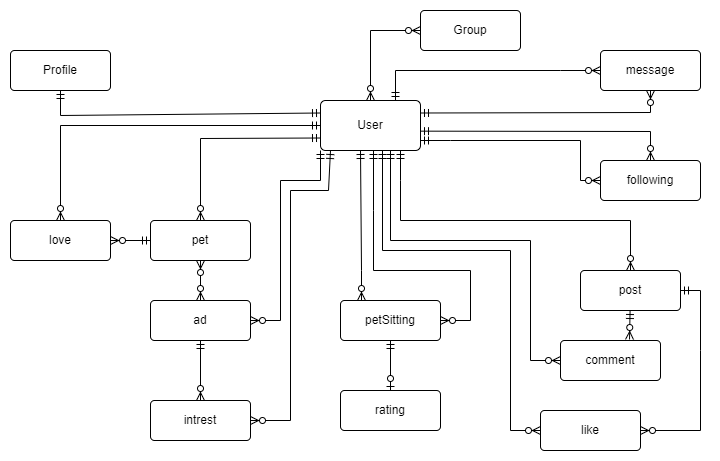
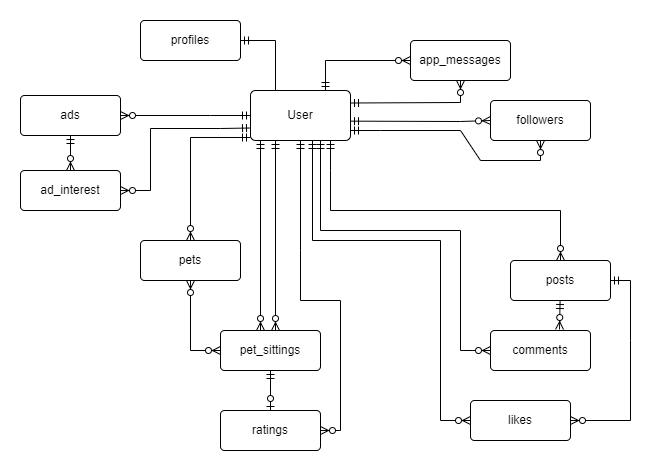
add images of models to apps in readme

diff --git a/README.md b/README.md
@@ -13,13 +13,13 @@ Once that was finished a more detailed logical database model was made with all 
 
 ![logical](/documentation/models/petpalacelogicalmodel.png)
 
-The scope of the database is quite wide to take into consideration that the project might grow in the future, leaving room for future features that might not be implemented in the first release.
-
 ## Apps
 
 The Pet Palace API has got # nr of apps, the different apps and their purpose is described as follows:
 
 ### Profile app
+
+![profilesmodel](/documentation/models/profilemodel.png)
 
 An app for the user's profile, the profile is created automatically when they sign up and create a user, the profile can only be edited, it is not possible to delete it, and the user can also only have one profile. There is also some functionality to count the number of followings and followers.
 
@@ -34,6 +34,8 @@ If the user checks the pet owner box, they will get a small icon next to their n
 
 ### Post app
 
+![postssmodel](/documentation/models/postmodel.png)
+
 The code for the Post app is greatly inspired by the Code Institute django rest framework walkthrough, with minor alterations to fit my project.
 
 All logged-in users will be able to create, update and delete a post.
@@ -46,6 +48,8 @@ There is some filter and search functionality as well as some functionality to c
 
 ### Comment app
 
+![commentssmodel](/documentation/models/commentmodel.png)
+
 The code for the comment app comes from the Code Institute django rest walkthrough with minor alterations and some added testing.
 It allows users to comment on each other's posts and the user can view, update and delete comments.
 
@@ -53,11 +57,15 @@ The user must be logged in to be able to comment and can only edit and delete th
 
 ### Like app
 
+![likesmodel](/documentation/models/likemodel.png)
+
 The code for the like app comes from the Code Institute django rest walkthrough with minor alterations such as using UniqueConstraint instead of unique_toghether.
 
 It allows users to like each other's posts as well as view and delete the likes, the user must be logged in to be able to like a post and can only delete the likes that they made, they can only like a post once.
 
 ### Follower app
+
+![followerssmodel](/documentation/models/followermodel.png)
 
 The code for the follower app comes from the Code Institute django rest walkthrough with minor alterations such as using UniqueConstraint instead of unique_toghether.
 
@@ -80,6 +88,8 @@ There is a filter functionality for the different types of pets, and a search fu
 
 ### Ad app
 
+![adsmodel](/documentation/models/admodel.png)
+
 The Ad app is of use for both pet owners and pet sitters, they can both make ads depending on if they require a pet sitter, or is available for pet sittings. The ad contains a title, description, image, dates from and to, compensation, location, status, pets, type and dates of creation and updating.
 
 The compensation is a Charfield to give the user a bit more freedom to choose what type of compensation that will be given or wanted, the image field allows the user to add an image of either their pets or themselves, the latter mainly for pet-sitters.
@@ -91,12 +101,16 @@ The users can filter ads on pets, status, ad owners and the type of ad it is.
 
 ### Ad Interest App
 
+![adsinterestsmodel](/documentation/models/interestmodel.png)
+
 The code for the ad interest app comes from the Code Institute django rest walkthrough with minor alterations such as using UniqueConstraint instead of unique_toghether.
 
 It is very similar to the likes app and allows users to show interest in each other's ads.
 The user must be logged in to be able to add interest to an ad and can only delete the interests that they made, they can only show interest in a specific ad once.
 
 ### AppMessage App
+
+![appmessagesmodel](/documentation/models/messagemodel.png)
 
 The AppMessage App lets Logged-in users send messages to each other that will contain a subject, the content of the message and the date and time when it was sent. The user can see all messages either sent by them or sent to them with the help of a custom filter, which also restricts other users from viewing any messages that are not sent to or from them.
 
@@ -109,6 +123,8 @@ Even though there might be lacking some functionality to make it smoother, the m
 The receiver field is ordered so that users that the owner is following will be displayed first.
 
 ### Pet Sitting app
+
+![petsittingssmodel](/documentation/models/petsittingmodel.png)
 
 The pet-sitting app acts like a contract between the pet owner and pet sitter, that owner can connect their pets to the pet-sitting to be able to track which user pet sat which pet or pets. The pet-sitting model is very similar to the Ad except for the pets attribute, which is a many-to-many relationship with the Pet model. The field is allowed to be blank in case the user does not want to attach their pets to the pet sitting.
 
@@ -125,6 +141,8 @@ The user can filter, order and search on the pet-sitting list view, they can fil
 It would be nice to have a functionality where the pet-sitting is only created if both parties accept the pet-sitting, but that is beyond the scope of this project and my knowledge at the time, there might be some way of implementing this on the front-end side however that is for future endeavours with React.
 
 ### Rating app
+
+![ratingsmodel](/documentation/models/ratingmodel.png)
 
 The rating app allows the petsitting owner to rate the petsitting. The rating is connected with the petsitting using a foreign key and on the profile of the user that pet sat the average rating score will be displayed using Avg in the .annotate function on the query set.
 
